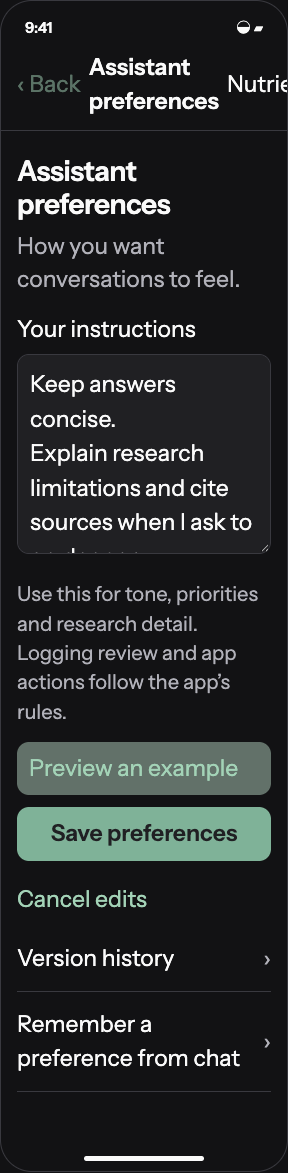
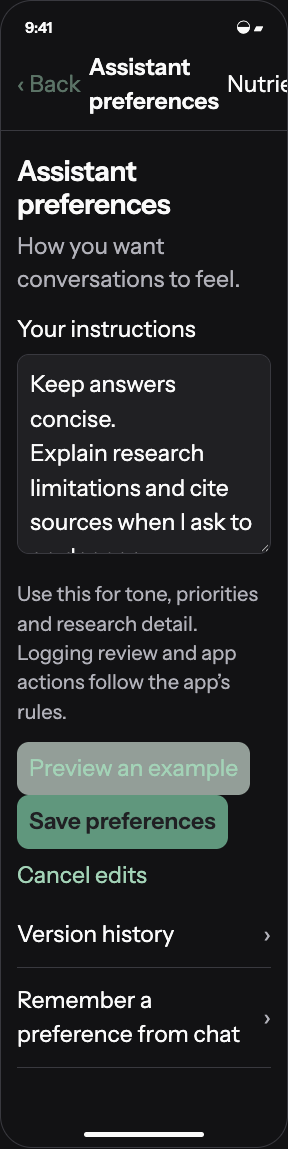
Refine phone layout, reference labels and action sizing

diff --git a/design/2026-11-06/assistant-preferences/index.html b/design/2026-11-06/assistant-preferences/index.html
@@ -2,9 +2,9 @@
 @font-face{font-family:Instrument;src:url('../../../ios/App/App/Fonts/InstrumentSans-Regular.ttf')}@font-face{font-family:Instrument;src:url('../../../ios/App/App/Fonts/InstrumentSans-SemiBold.ttf');font-weight:600}
 :root{--bg:#f7f7f8;--surface:#fff;--ink:#18181b;--secondary:#606068;--rule:#dddde1;--fern:#27634c;--soft:#edf2ef;--ochre:#80580d;--error:#a52c34;font-size:17px;color-scheme:light}
 *{box-sizing:border-box}body{margin:0;background:var(--bg);color:var(--ink);font-family:Instrument,system-ui,sans-serif;line-height:1.45}body.dark{--bg:#121214;--surface:#202023;--ink:#fafafa;--secondary:#b1b1b9;--rule:#39393f;--fern:#a3d3b7;--soft:#293c32;--ochre:#e6c272;--error:#ffb0b4;color-scheme:dark}body.large{font-size:23px}
-button,input,select,textarea{font:inherit;color:inherit}button,a,input,select,textarea{touch-action:manipulation}button{min-height:44px;white-space:normal;text-align:left;background:none;border:0;padding:10px 12px;border-radius:12px;cursor:pointer}button:focus-visible,a:focus-visible{outline:3px solid var(--fern);outline-offset:3px}button.primary{background:var(--fern);color:var(--surface);text-align:center;font-weight:600}button.secondary{background:var(--soft);color:var(--fern)}button.full{display:block;width:100%;margin-top:12px}button.link{color:var(--fern);padding-inline:0}button:disabled{opacity:.5;cursor:default}a{color:var(--fern)}
+button,input,select,textarea{font:inherit;color:inherit}button,a,input,select,textarea{touch-action:manipulation}button{min-height:44px;white-space:normal;text-align:left;background:none;border:0;padding:10px 12px;border-radius:12px;cursor:pointer}button:focus-visible,a:focus-visible{outline:3px solid var(--fern);outline-offset:3px}button.primary{background:var(--fern);color:var(--surface);text-align:center;font-weight:600}button.secondary{background:var(--soft);color:var(--fern)}button.link{color:var(--fern);padding-inline:0}button:disabled{opacity:.5;cursor:default}a{color:var(--fern)}
 .review{padding:32px;max-width:1160px;margin:auto;display:grid;grid-template-columns:minmax(220px,1fr) minmax(320px,390px);gap:64px;align-items:start}.review h1{font-size:34px;line-height:1.1;letter-spacing:-.8px;margin:16px 0}.review aside{max-width:460px}.eyebrow{color:var(--secondary);font-size:15px}.lede{font-size:20px}.tools{display:flex;flex-wrap:wrap;gap:8px;margin:24px 0}.tools button{border:1px solid var(--rule)}.steps{display:grid;gap:8px;margin-top:24px}.steps button{border-bottom:1px solid var(--rule);border-radius:0;padding:12px 0}.steps button[aria-current=step]{color:var(--fern);font-weight:600}.stage{color:var(--fern);font-weight:600}.note{font-size:15px;color:var(--secondary)}
-.phone{width:100%;background:var(--bg);border:1px solid var(--rule);border-radius:32px;overflow:hidden;min-height:780px;box-shadow:0 12px 44px #00000008}.status{display:flex;justify-content:space-between;padding:16px 24px 8px;font-size:15px;font-weight:600}.nativebar{display:flex;align-items:center;justify-content:space-between;gap:8px;padding:4px 16px 12px;border-bottom:1px solid var(--rule)}.nativebar strong{font-weight:600}.nativebar button{color:var(--fern);padding-inline:0;flex-shrink:0}.screen{padding:24px 16px;min-height:640px}.screen h2{font-size:28px;line-height:1.2;letter-spacing:-.5px;margin:0 0 8px}.screen h3{font-size:19px;margin:24px 0 8px;font-weight:600}.screen p{margin:8px 0 16px}.muted{color:var(--secondary)}.small{font-size:.88em}.mono{font-variant-numeric:tabular-nums}.user{background:var(--surface);border-radius:18px 18px 4px 18px;padding:16px;margin:0 0 24px 28px}.assistant{margin:0 0 24px}.assistant .label{font-size:15px;color:var(--secondary);margin-bottom:8px}.card{background:var(--surface);border-radius:18px;padding:16px;margin:16px 0}.card h3{margin-top:0}.row{display:flex;align-items:center;justify-content:space-between;gap:16px;padding:14px 0;border-bottom:1px solid var(--rule);min-height:52px}.row>*{min-width:0}.row>span:last-child{text-align:right}.row small{display:block;color:var(--secondary);font-size:15px}.navrow{width:100%;display:flex;align-items:center;justify-content:space-between;gap:16px;padding:16px 0;border-bottom:1px solid var(--rule);border-radius:0}.navrow span{min-width:0}.navrow small{display:block;font-size:15px;margin-top:4px}.chevron{color:var(--secondary);flex-shrink:0}.big{font-size:34px;line-height:1.15;font-weight:600;font-variant-numeric:tabular-nums;margin:20px 0 4px}.meter{height:7px;background:var(--rule);border-radius:4px;overflow:hidden;margin:16px 0}.meter i{display:block;height:100%;background:var(--fern)}.choices{display:flex;gap:8px;flex-wrap:wrap}.choices button{background:var(--surface);border:1px solid var(--rule)}label.field{display:block;margin:16px 0}label.field>span{display:block;margin-bottom:8px}input,select,textarea{background:var(--surface);border:1px solid var(--rule);border-radius:12px;padding:12px;width:100%;min-height:48px}textarea{resize:vertical;min-height:200px;line-height:1.5}.inline{display:flex;align-items:center;gap:12px}.inline input{width:auto}.receipt{padding:16px 0;border-block:1px solid var(--rule);margin:20px 0}.receipt strong{display:block}.alert{color:var(--error)}.safe{height:5px;width:120px;border-radius:4px;background:var(--ink);margin:16px auto 10px}.composer{display:flex;align-items:center;gap:8px;border-top:1px solid var(--rule);padding:12px 16px;background:var(--surface)}.composer input{border:0;background:var(--bg);font-size:17px}.composer button{color:var(--fern)}[role=status]{min-height:24px;color:var(--fern);font-size:15px}.timeline{border-left:2px solid var(--rule);padding-left:16px;margin:20px 0}.timeline>div{margin-bottom:24px}.pill{font-size:15px;color:var(--secondary)}.reportline{border-left:3px solid var(--fern);padding-left:16px;margin:24px 0}.reportline .big{margin:8px 0}.footer{padding:0 32px 24px;max-width:1160px;margin:auto;color:var(--secondary);font-size:15px}
+.phone{width:100%;background:var(--bg);border:1px solid var(--rule);border-radius:32px;overflow:hidden;min-height:780px;box-shadow:0 12px 44px #00000008}.status{display:flex;justify-content:space-between;padding:16px 24px 8px;font-size:15px;font-weight:600}.nativebar{display:flex;align-items:center;justify-content:space-between;gap:8px;padding:4px 16px 12px;border-bottom:1px solid var(--rule)}.nativebar strong{font-weight:600}.nativebar button{color:var(--fern);padding-inline:0;flex-shrink:0}.screen{padding:24px 16px;min-height:640px}.screen h2{font-size:28px;line-height:1.2;letter-spacing:-.5px;margin:0 0 8px}.screen h3{font-size:19px;margin:24px 0 8px;font-weight:600}.screen p{margin:8px 0 16px}.muted{color:var(--secondary)}.small{font-size:.88em}.mono{font-variant-numeric:tabular-nums}.user{background:var(--surface);border-radius:18px 18px 4px 18px;padding:16px;margin:0 0 24px 28px}.assistant{margin:0 0 24px}.assistant .label{font-size:15px;color:var(--secondary);margin-bottom:8px}.card{background:var(--surface);border-radius:18px;padding:16px;margin:16px 0}.card h3{margin-top:0}.row{display:flex;align-items:center;justify-content:space-between;gap:16px;padding:14px 0;border-bottom:1px solid var(--rule);min-height:52px}.row>*{min-width:0}.row>span:last-child{text-align:right}.row small{display:block;color:var(--secondary);font-size:15px}.navrow{width:100%;display:flex;align-items:center;justify-content:space-between;gap:16px;padding:16px 0;border-bottom:1px solid var(--rule);border-radius:0}.navrow span{min-width:0}.navrow small{display:block;font-size:15px;margin-top:4px}.chevron{color:var(--secondary);flex-shrink:0}.big{font-size:34px;line-height:1.15;font-weight:600;font-variant-numeric:tabular-nums;margin:20px 0 4px}.meter{height:7px;background:var(--rule);border-radius:4px;overflow:hidden;margin:16px 0}.meter i{display:block;height:100%;background:var(--fern)}.choices{display:flex;gap:8px;flex-wrap:wrap}.choices button{background:var(--surface);border:1px solid var(--rule)}label.field{display:block;margin:16px 0}label.field>span{display:block;margin-bottom:8px}input,select,textarea{background:var(--surface);border:1px solid var(--rule);border-radius:12px;padding:12px;width:100%;min-height:48px}textarea{resize:vertical;min-height:200px;line-height:1.5}.inline{display:flex;align-items:center;gap:12px}.inline input{width:auto}.receipt{padding:16px 0;border-block:1px solid var(--rule);margin:20px 0}.receipt strong{display:block}.alert{color:var(--error)}.safe{height:5px;width:120px;border-radius:4px;background:var(--ink);margin:16px auto 10px}.composer{display:flex;align-items:center;gap:8px;border-top:1px solid var(--rule);padding:12px 16px;background:var(--surface)}.composer input{border:0;background:var(--bg);font-size:17px}.composer button{color:var(--fern)}[role=status]{min-height:24px;color:var(--fern);font-size:15px}.timeline{margin:20px 0}.timeline>div{margin-bottom:24px}.pill{font-size:15px;color:var(--secondary)}.reportline{margin:24px 0}.reportline .big{margin:8px 0}.footer{padding:0 32px 24px;max-width:1160px;margin:auto;color:var(--secondary);font-size:15px}
 @media(max-width:760px){.review{display:flex;flex-direction:column;padding:20px 16px;gap:24px}.review aside{max-width:none}.phone{max-width:430px;align-self:center}.steps{display:flex;flex-wrap:wrap;gap:4px}.steps button{padding:8px}.review h1{font-size:28px}.lede{font-size:17px}.footer{padding:16px}}@media(prefers-reduced-motion:no-preference){button{transition:background .16s ease-out}}
 </style></head><body>
     <main class="review"><aside><div class="eyebrow">NUTRIENT / INTERACTION STUDY / NOV 6, 2026</div><h1>Make the conversation yours</h1><p class="lede">An editable personal instruction document for tone and priorities. App-owned logging and action rules stay dependable.</p><p class="stage">Later feature</p><div class="tools"><button onclick="toggleTheme()">Light / dark</button><button onclick="toggleText()">Larger text</button></div><nav class="steps" aria-label="Review scenario"><button onclick="go(0)" aria-current="false">Edit preferences</button><button onclick="go(1)" aria-current="false">Preview style</button><button onclick="go(2)" aria-current="false">Version history</button><button onclick="go(3)" aria-current="false">Remember from chat</button></nav><p class="note">Browser reference for a future native SwiftUI flow. Synthetic data. Changes stay in this page’s memory; no app data, tools or notifications are connected.</p><a href="https://github.com/kggreco11/nutrient/issues/4">Implementation issue #4 ↗</a></aside>
@@ -25,10 +25,10 @@ function back(){go(Math.max(0,view-1));}
 
 const titles=['Assistant preferences','Example preview','Preference history','Chat'];
 const screens=[
-()=>`<h2>Assistant preferences</h2><p class="muted">How you want conversations to feel.</p><label class="field"><span>Your instructions</span><textarea id="prefs" maxlength="2000" oninput="state.prefs=this.value">${escape(state.prefs)}</textarea></label><p class="small muted">Use this for tone, priorities and research detail. Logging review and app actions follow the app’s rules.</p><button class="secondary full" onclick="capturePreview()">Preview an example</button><button class="primary full" onclick="savePrefs()">Save preferences</button><button class="link full" onclick="cancelPrefs()">Cancel edits</button>${nav('Version history',2)}${nav('Remember a preference from chat',3)}`,
-()=>`<h2>Example preview</h2><p class="pill">ILLUSTRATIVE · NO MODEL CALL</p>${user('Help me understand my choline target.')}${reply(`<p>Your target is a tracking choice. The published AI is a separate reference, with its own population and evidence limits.</p><p>Would you like a brief explanation or a closer look at the source?</p>`)}<p class="muted small">This shows the intended response style. It does not evaluate arbitrary instructions or change your diary or targets.</p>${btn('Back to editing',0,'secondary full')}`,
+()=>`<h2>Assistant preferences</h2><p class="muted">How you want conversations to feel.</p><label class="field"><span>Your instructions</span><textarea id="prefs" maxlength="2000" oninput="state.prefs=this.value">${escape(state.prefs)}</textarea></label><p class="small muted">Use this for tone, priorities and research detail. Logging review and app actions follow the app’s rules.</p><button class="secondary" onclick="capturePreview()">Preview an example</button><button class="primary" onclick="savePrefs()">Save preferences</button><button class="link" onclick="cancelPrefs()">Cancel edits</button>${nav('Version history',2)}${nav('Remember a preference from chat',3)}`,
+()=>`<h2>Example preview</h2><p class="pill">ILLUSTRATIVE · NO MODEL CALL</p>${user('Help me understand my choline target.')}${reply(`<p>Your target is a tracking choice. The published AI is a separate reference, with its own population and evidence limits.</p><p>Would you like a brief explanation or a closer look at the source?</p>`)}<p class="muted small">This shows the intended response style. It does not evaluate arbitrary instructions or change your diary or targets.</p>${btn('Back to editing',0,'secondary')}`,
 ()=>`<h2>Preference history</h2><div class="timeline"><div><span class="pill">CURRENT · VERSION ${state.revision}</span><p>${escape(state.saved).replace(/\n/g,'<br>')}</p></div><div><span class="pill">DEFAULT</span><p>Use the app’s default response style.</p><button class="link" onclick="resetPrefs()">Restore default</button></div></div>${btn('Back to preferences',0)}`,
-()=>user('Could you keep answers shorter, unless I ask to go deeper?')+reply(`<p>Yes. Would you like me to remember this for future conversations?</p><div class="card"><h3>Response preference</h3><p>“Keep answers concise unless I ask for more detail.”</p><button class="primary full" onclick="rememberPref()">Save preferences</button>${btn('Just this conversation',0,'link full')}</div>`)
+()=>user('Could you keep answers shorter, unless I ask to go deeper?')+reply(`<p>Yes. Would you like me to remember this for future conversations?</p><div class="card"><h3>Response preference</h3><p>“Keep answers concise unless I ask for more detail.”</p><button class="primary" onclick="rememberPref()">Save preferences</button>${btn('Just this conversation',0,'link')}</div>`)
 ];function capturePreview(){state.prefs=$('#prefs').value;go(1);}function savePrefs(){state.saved=state.prefs;state.revision++;announce('Preferences saved in this prototype.');}function cancelPrefs(){state.prefs=state.saved;render();announce('Edits discarded.');}function resetPrefs(){state.prefs='';state.saved='';state.revision++;go(0);announce('Default response style restored in this prototype.');}function rememberPref(){state.prefs='Keep answers concise unless I ask for more detail.';state.saved=state.prefs;state.revision++;go(0);announce('Response preference saved in this prototype.');}
 
 render();</script></body></html>

diff --git a/.interface-design/system.md b/.interface-design/system.md
@@ -26,6 +26,12 @@ Spacing: 4 pt base. `FieldSpace`: tight 4, item 8, controls 12, inset 16, sectio
 
 Depth: surface tones and subtle rules. Reserve the main card for the progress summary; other home sections use spacing and headings. Rounded controls 12 pt, summary card 20 pt, recipe/chat surfaces 16–20 pt. Keep chrome quiet; use solid fills and purposeful SF Symbols.
 
+## Personal layout preferences
+
+- Group text with spacing, headings and subtle horizontal rules. Never use a decorative vertical accent stripe beside a card or text block.
+- Size action buttons to their labels with comfortable padding and at least 44 pt hit targets. Use full-width buttons only when the interaction or layout specifically calls for them; navigation and selectable data rows may use their full row.
+- Keep phone report overviews compact; open a selected nutrient's chart in detail instead of stacking large plots. Use plain-language reference labels, with specialist terminology explained in the detail view.
+
 ## Nutrition semantics
 
 Coverage is a score out of 100: mean of 31 capped nutrient percentages. It is not the fraction of targets met. Display the score and target-completion count separately; explain the scope in coverage details. Macros and calories are separate from the 31 targets.

diff --git a/design/2026-11-06/assistant-preferences/validation.md b/design/2026-11-06/assistant-preferences/validation.md
@@ -17,3 +17,10 @@
 - Browser screenshots are design references, not screenshots of the native app. No physical-device, native keyboard/safe-area, full VoiceOver or accessibility certification claim.
 - No live model, research retrieval, settings persistence, target migration, history aggregation, push permission, scheduled job or injection-resistance test. Those remain implementation acceptance criteria.
 - Prototype steps can be selected directly for review; that reviewer navigation does not represent a production route around proposal consent.
+
+## Compact-layout refinement
+
+- Rechecked all selectable states at 320/390 px with normal/larger text and light/dark appearance; no horizontal overflow or JavaScript page errors.
+- Action buttons use their content width; navigation/data rows keep full-row hit targets. Decorative text/card rails were removed.
+- Nutrient reference labels use plain language. The reports overview opens chart detail separately, and All nutrients exposes the full catalog with unsampled/partial states.
+- No physical-iPhone diary access or real-history analysis occurred. Native implementation/verification is still outstanding.

diff --git a/design/2026-11-06/assistant-preferences/README.md b/design/2026-11-06/assistant-preferences/README.md
@@ -69,3 +69,7 @@ No implementation issue is closed by this design PR. Preserve the diary and hist
 - [Nutrient evidence and baselines](https://github.com/kggreco11/nutrient/issues/2)
 - [Optional reports](https://github.com/kggreco11/nutrient/issues/3), dependent on historical context and baseline metadata
 - [Assistant response preferences](https://github.com/kggreco11/nutrient/issues/4), a later feature with protected app workflows
+
+## Layout refinement · 6 November 2026
+
+The shared design contract now records the user’s preference for content-sized action buttons, text grouped without decorative vertical accent rails, compact phone overviews, and plain-language reference labels. Navigation and selectable data rows retain full-row hit areas. Native implementation and iPhone validation remain outstanding.
